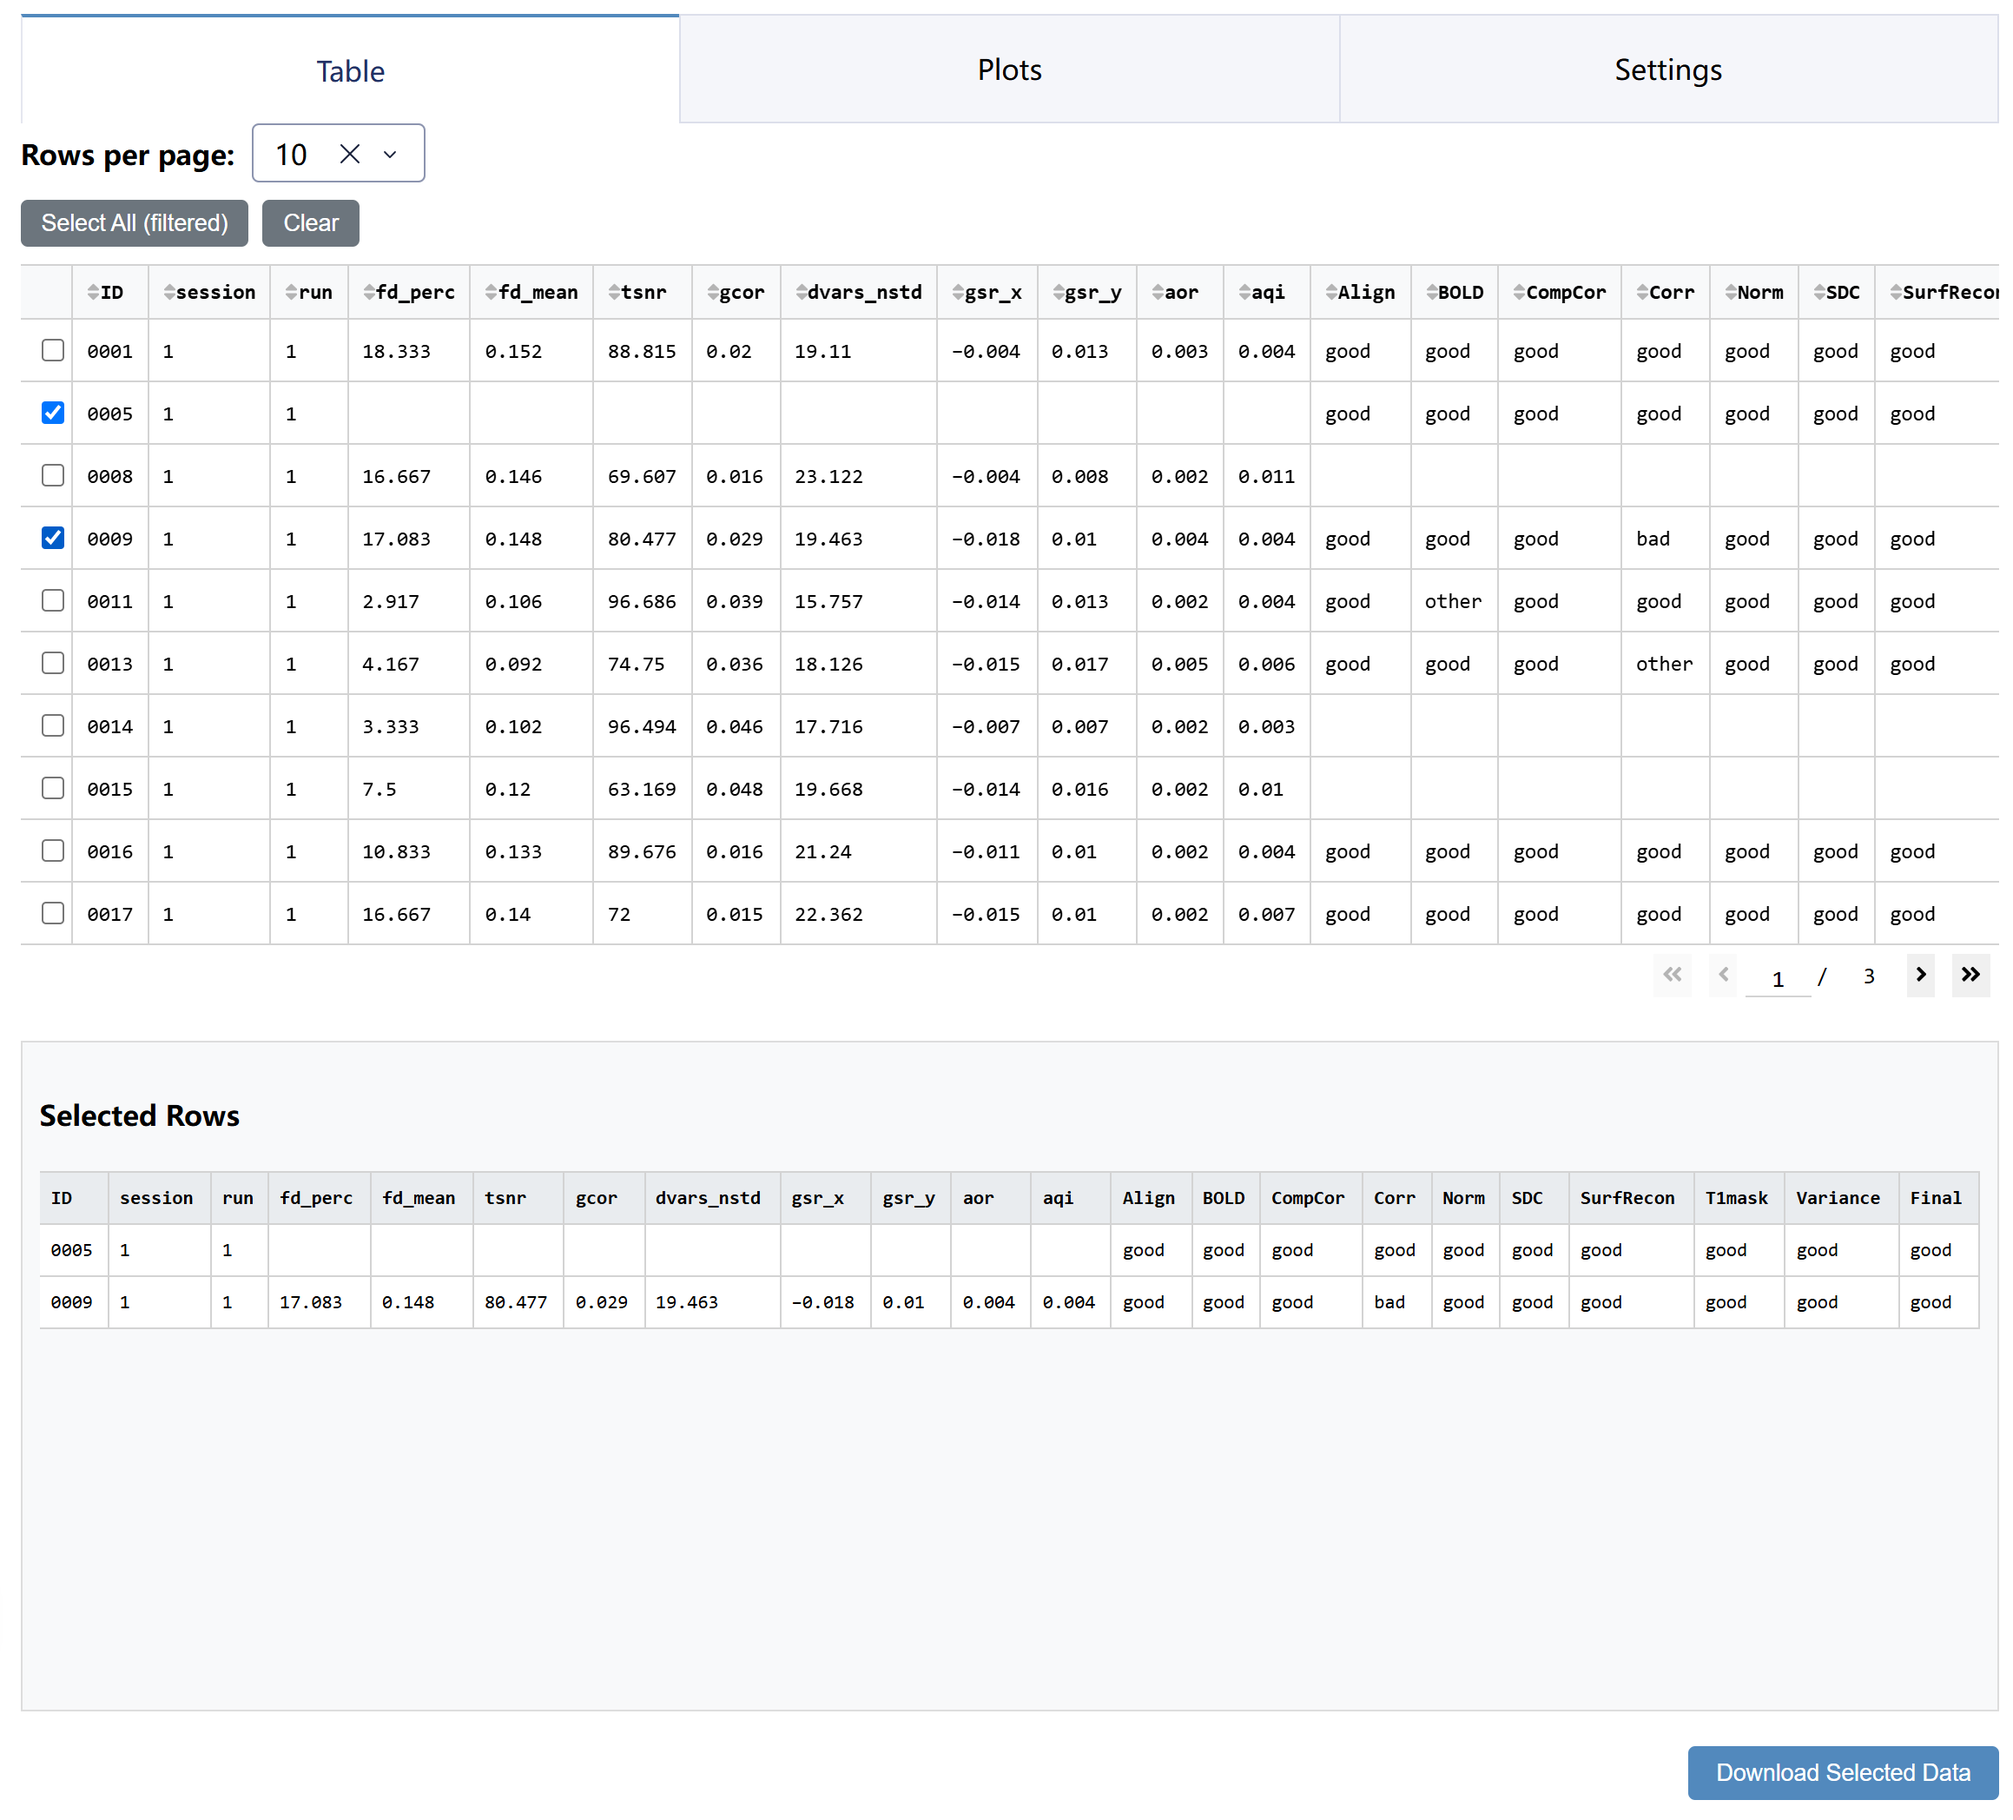
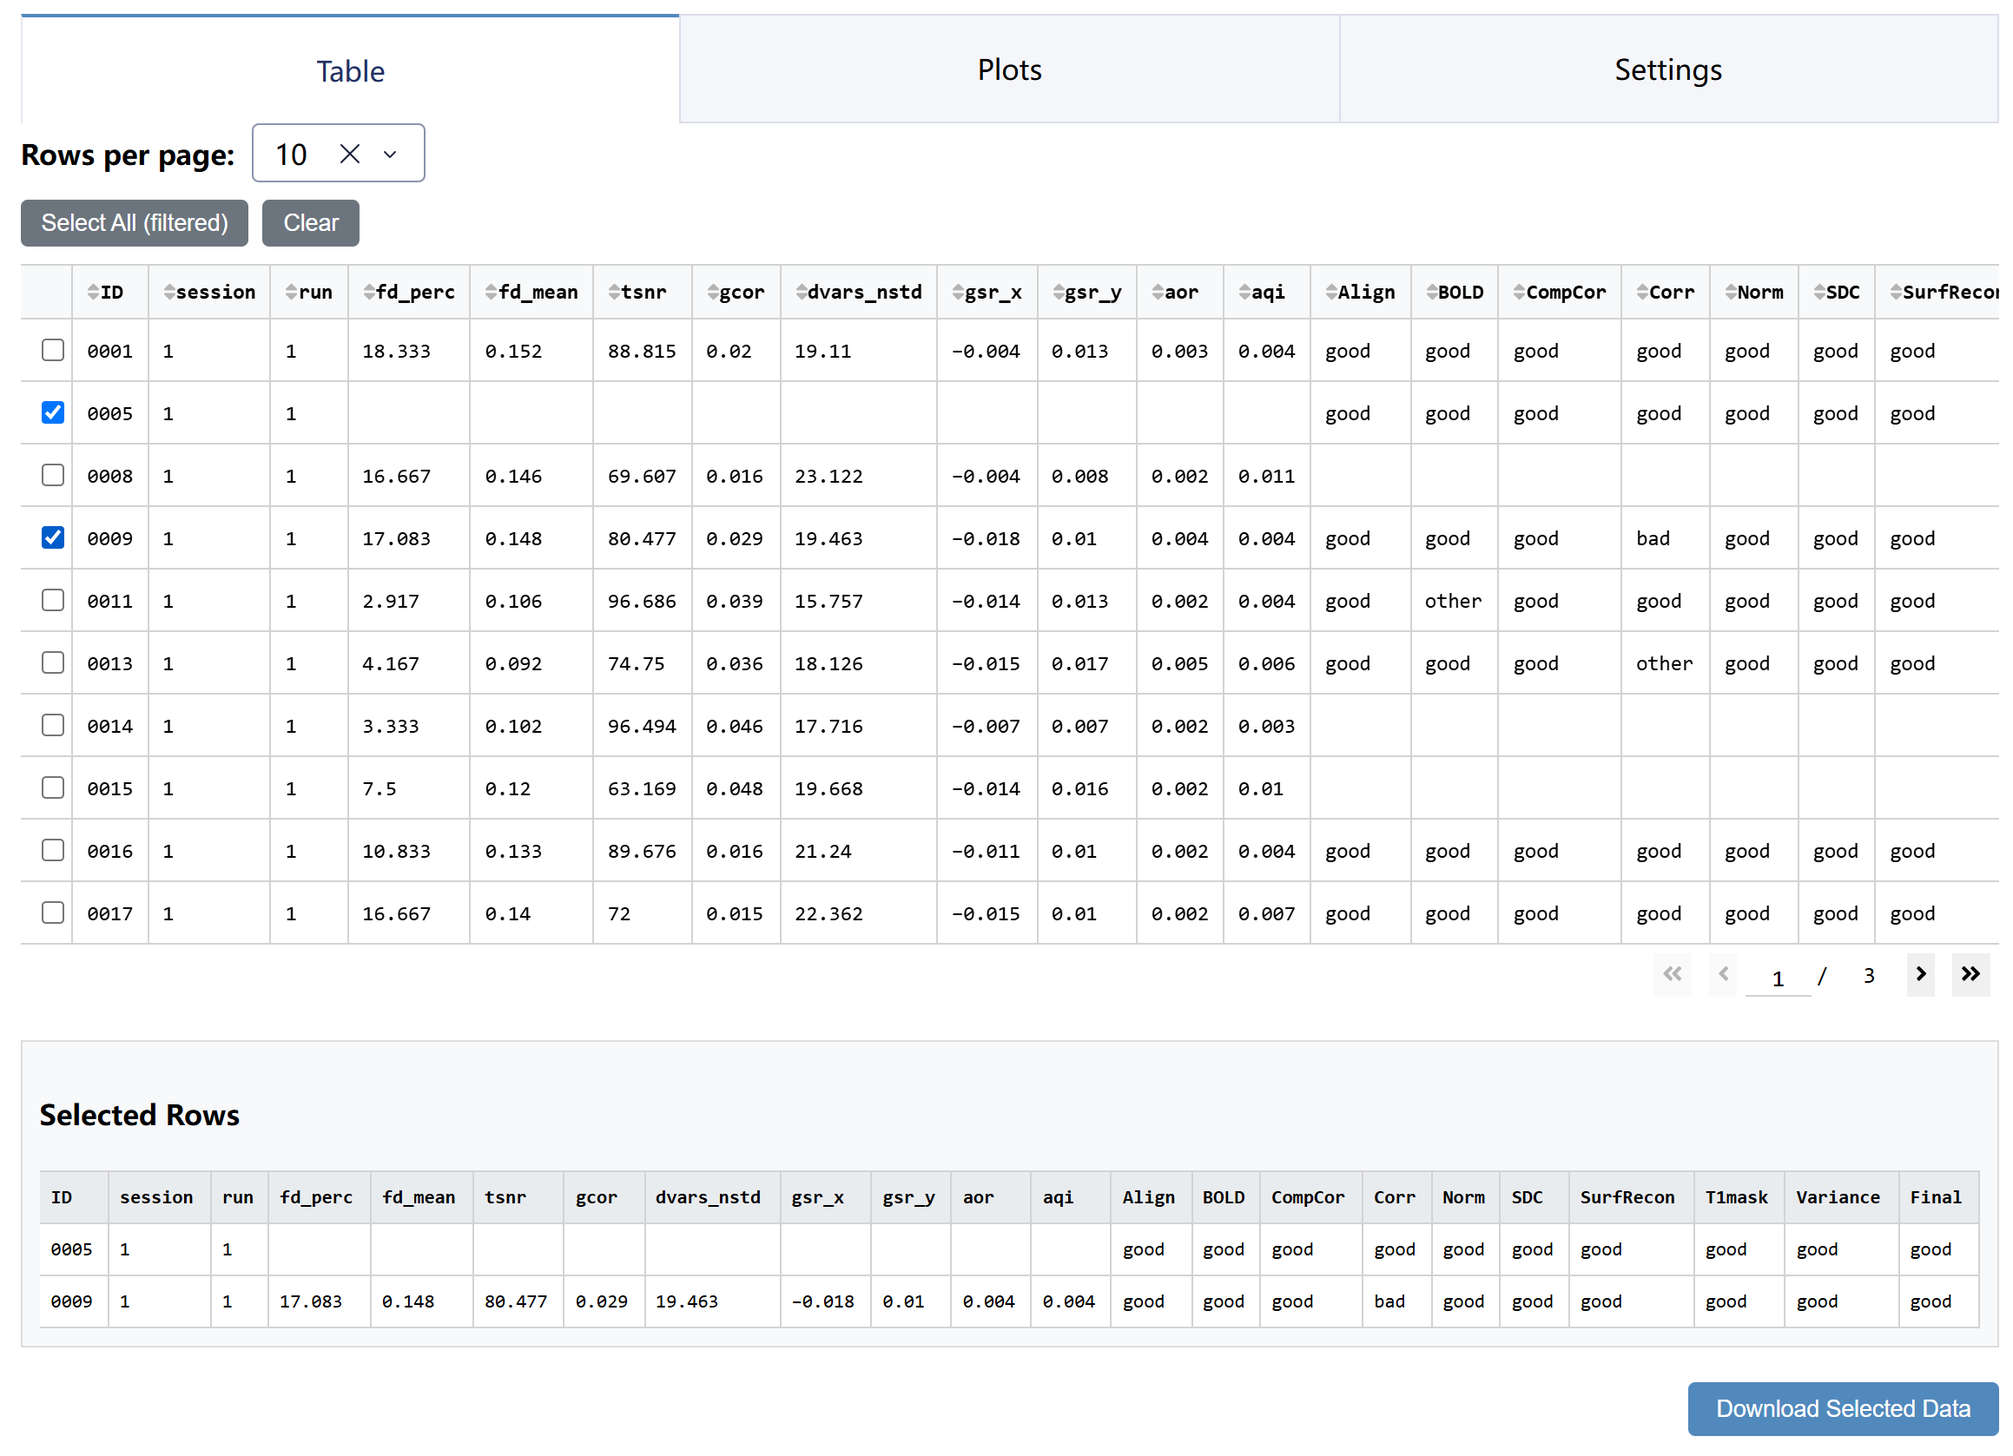
Size the Selected Rows table to the rows in it
The table under Selected Rows was always 300 px high, which left a large empty area when only a few rows were selected. It now grows up to 300 px and scrolls beyond that. The Table picture in the handbook is retaken.

diff --git a/tests/test_dashboard.py b/tests/test_dashboard.py
@@ -157,6 +157,9 @@ class TestTableDisplay:
                           "datatable.selected_rows").get_json()["response"]["selected-rows-display"]["children"]
         assert [c["id"] for c in shown["props"]["columns"]] == expected
         assert list(shown["props"]["data"][0]) == expected
+        # A few selected rows take only the room they need
+        assert shown["props"]["style_table"]["maxHeight"] == "300px"
+        assert "height" not in shown["props"]["style_table"]
 
     def test_table_only_columns_follow_the_metrics_in_data_order_and_absent_ones_are_reported(self, tmp_path):
         df = pd.DataFrame({"ID": ["001"], "Final": ["good"], "efc": [0.5], "snr": [3.0], "fd_mean": [0.1]})

diff --git a/fMRI_QCtoolkit/dashboard/base_app.py b/fMRI_QCtoolkit/dashboard/base_app.py
@@ -476,7 +476,7 @@ class BaseDashboard:
             return dash_table.DataTable(
                 data=selected[self.table_column_ids()].to_dict('records'),
                 columns=self._table_columns(),
-                style_table={'height': '300px', 'overflowY': 'auto', 'overflowX': 'auto'},
+                style_table={'maxHeight': '300px', 'overflowY': 'auto', 'overflowX': 'auto'},
                 style_cell={'textAlign': 'left', 'fontSize': '11px', 'padding': '6px'},
                 style_header={'backgroundColor': '#e9ecef', 'fontWeight': 'bold'},
                 page_size=50

diff --git a/CHANGELOG.md b/CHANGELOG.md
@@ -28,6 +28,7 @@
 - A metric with the same value in every run no longer flattens the other metrics in the lollipop chart.
 - With Dash 4, the boxes under each slider no longer cover the tick boxes below.
 - Threshold numbers on the sliders sit above the track, so the value boxes no longer hide one near an end; with Dash 4, a metric's tick boxes fit on one line.
+- The Selected Rows table is only as tall as the rows in it.
 
 ### Removed
 - `lollipop_chart_data.csv` and the dashboards' `--lollipop-file` option.
